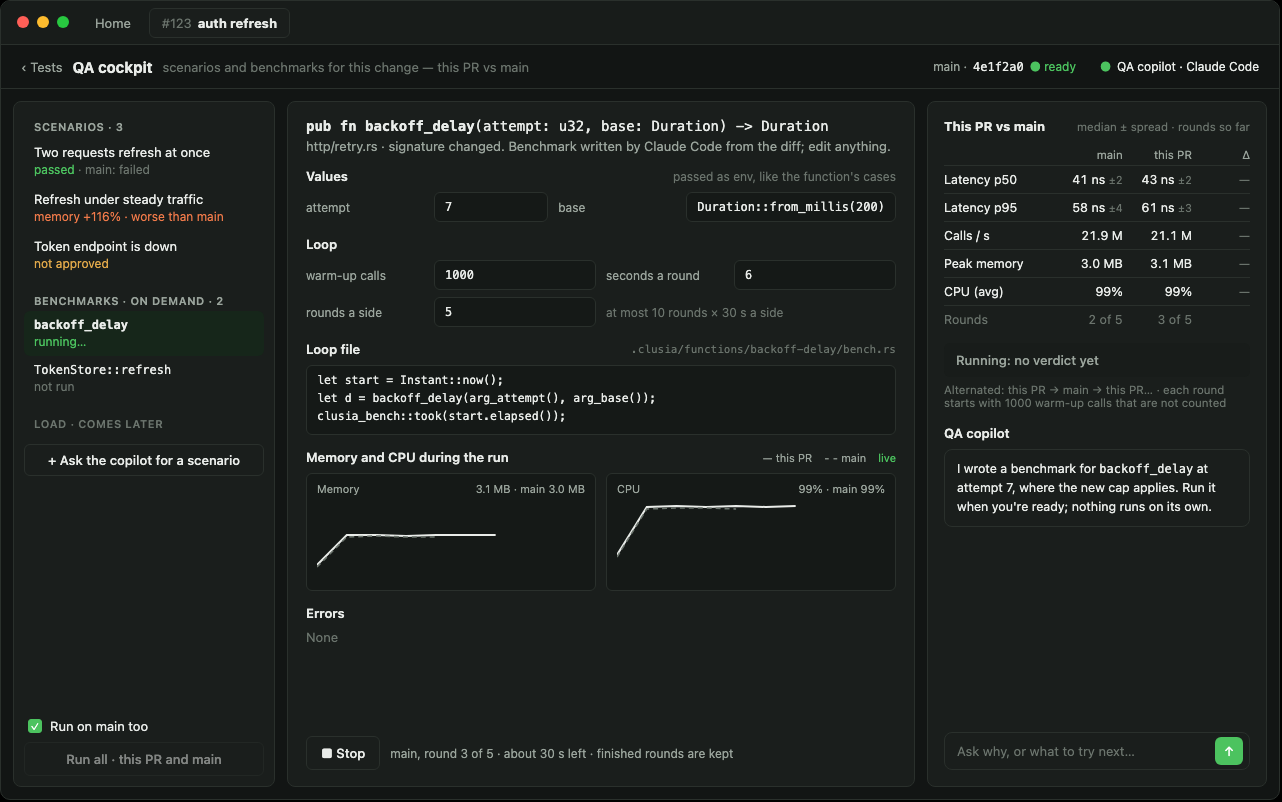
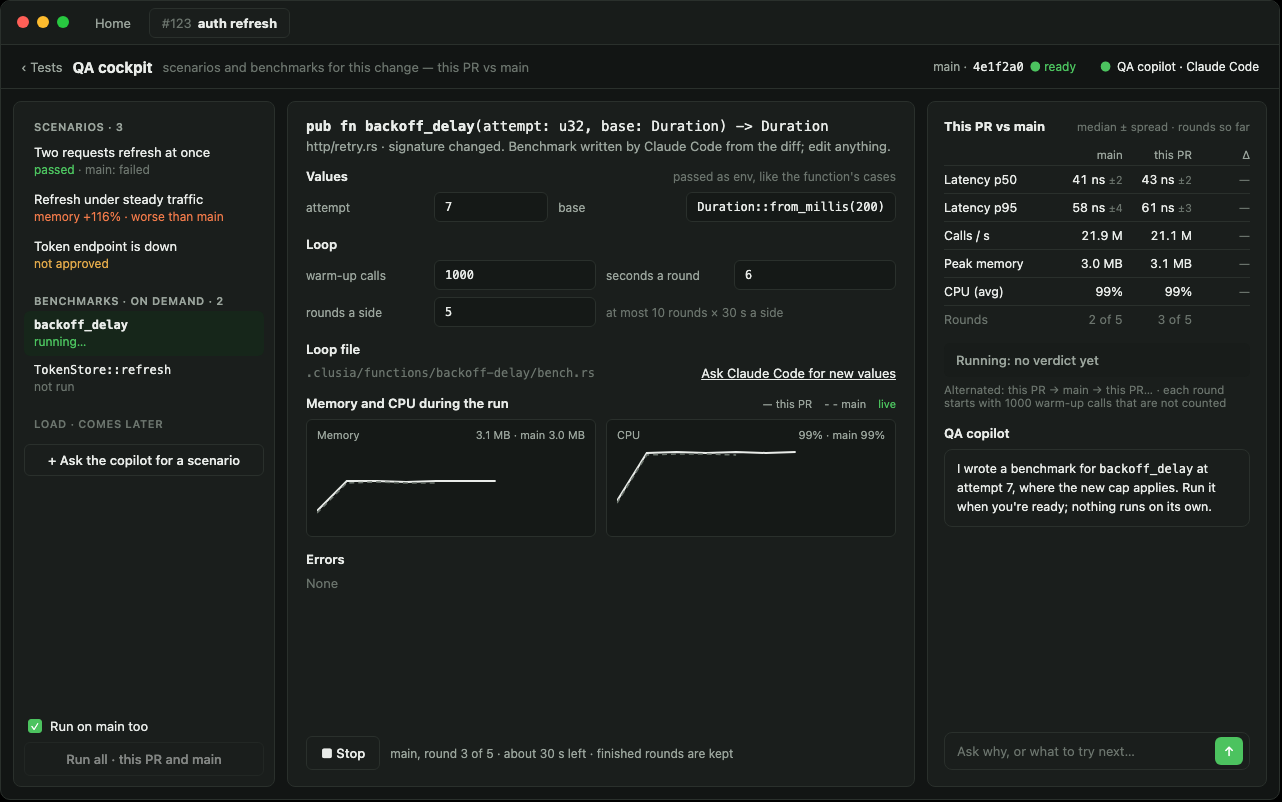
docs: the benchmark board names its loop file instead of showing its text

diff --git a/docs/mockups/sp4/src/cockpit-bench.html b/docs/mockups/sp4/src/cockpit-bench.html
@@ -37,10 +37,8 @@
         <span class="lbl">rounds a side</span><span class="in">5</span>
         <span class="f" style="grid-column:span 2;font-size:12px">at most 10 rounds × 30 s a side</span>
       </div>
-      <div class="h">Loop file <span class="r f mono" style="font-size:11px">.clusia/functions/backoff-delay/bench.rs</span></div>
-      <div class="pane" style="height:70px;padding:6px 10px">let start = Instant::now();
-let d = backoff_delay(arg_attempt(), arg_base());
-clusia_bench::took(start.elapsed());</div>
+      <div class="h">Loop file</div>
+      <div style="display:flex;align-items:center;gap:12px"><span class="mono f" style="font-size:12px">.clusia/functions/backoff-delay/bench.rs</span><span class="u" style="margin-left:auto">Ask Claude Code for new values</span></div>
       <div class="h">Memory and CPU during the run <span class="r legend"><span>— this PR</span><span>- - main</span><span class="ok">live</span></span></div>
       <div style="display:flex;gap:10px;height:118px">
         <div class="chart"><div class="legend" style="justify-content:space-between"><span>Memory</span><span>3.1 MB · main 3.0 MB</span></div>
